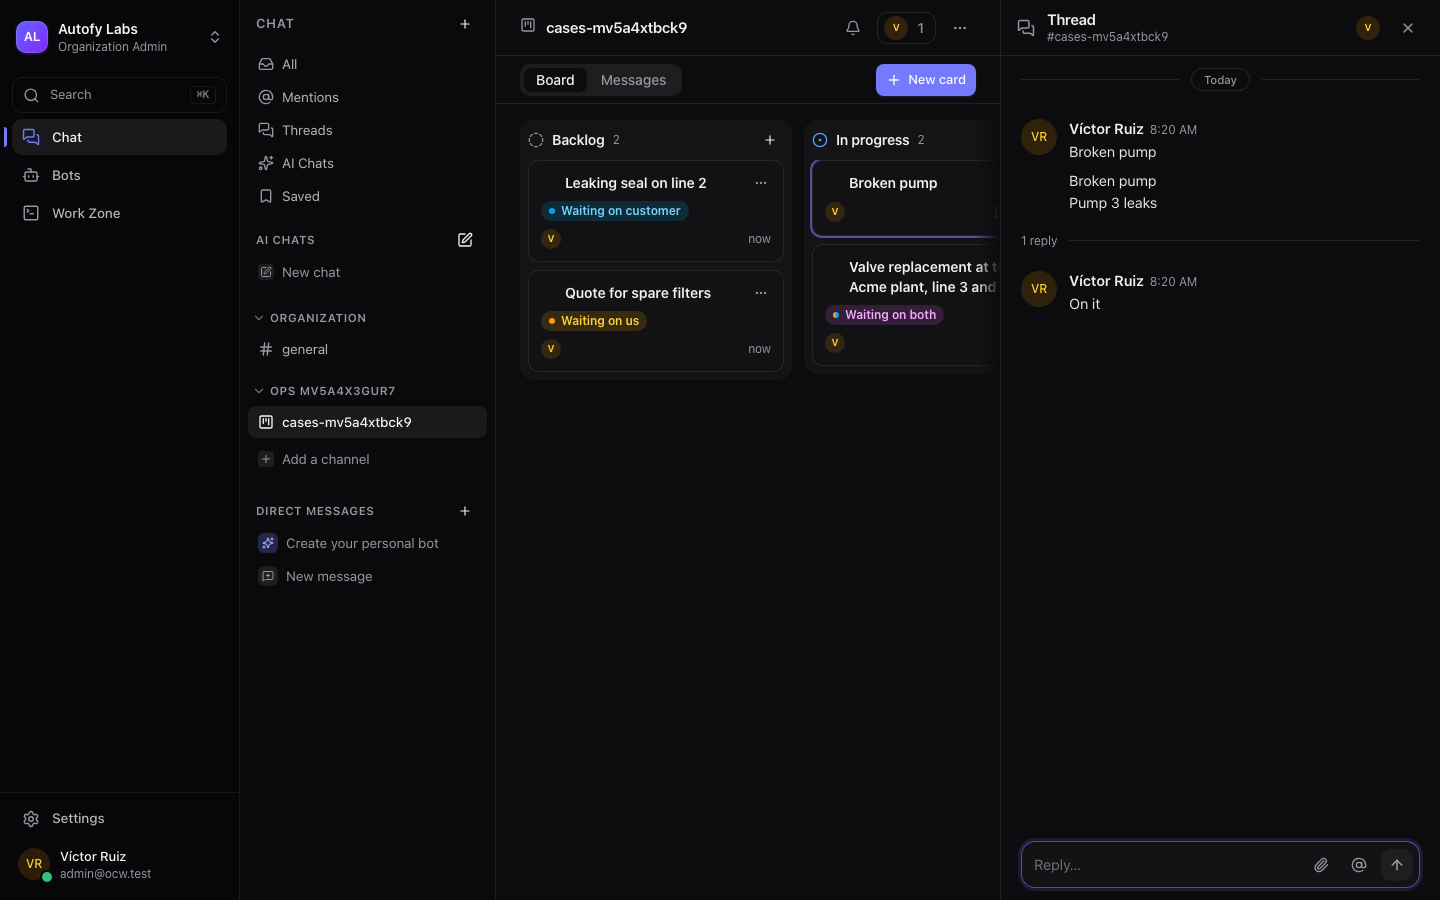
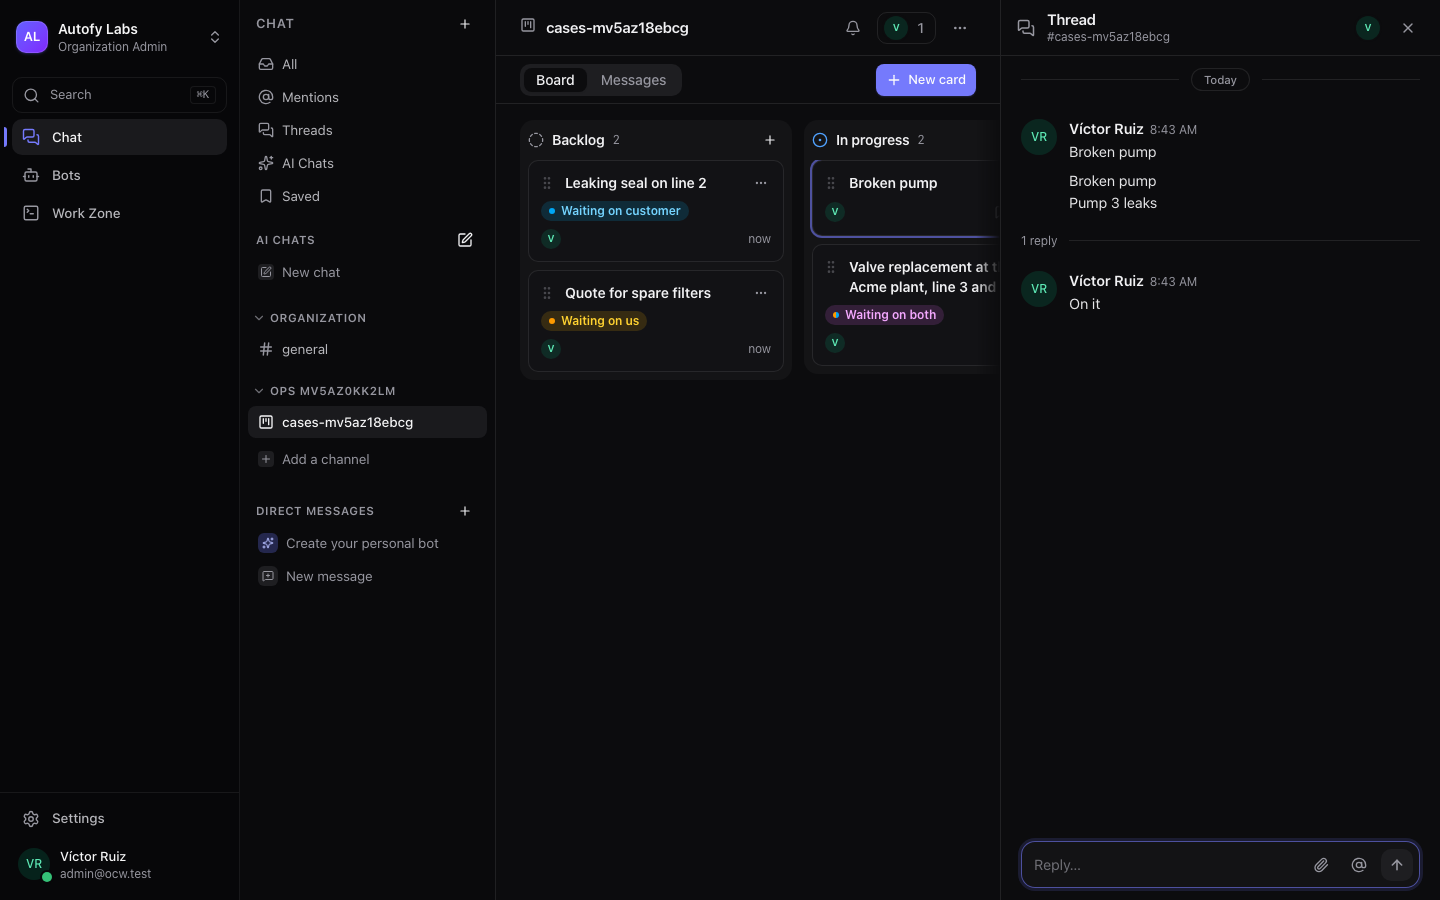
feat(web): cards move by pointer, menu and touch at 1440 and 390
- Pointer drag within and across lanes, Escape or a drop outside cancels with no request
- Card menu moves (Move to…, top, bottom) and waiting state, announced; focus stays on
  the moved card's menu (desktop) or the tab list (390, card left the tab)
- 390: column tabs keep col= across the thread round trip, long-press reorder by touch
- Cancel announcement names the column the drag started from; tab names pluralise
- e2e: pointer, Escape, menu, waiting, lane +, 390 tabs, CDP touch long-press, screenshots

diff --git a/e2e/tests/board-channels.spec.ts b/e2e/tests/board-channels.spec.ts
@@ -1,4 +1,11 @@
-import { type APIRequestContext, type Browser, expect, type Page, test } from "@playwright/test";
+import {
+  type APIRequestContext,
+  type Browser,
+  expect,
+  type Locator,
+  type Page,
+  test,
+} from "@playwright/test";
 import { apiAs, openAs } from "../support/actors";
 import {
   apiCard,
@@ -7,6 +14,7 @@ import {
   cardTile,
   columnId,
   columnOrder,
+  createBoardChannel,
   createCard,
   openBoard,
 } from "../support/board";
@@ -165,4 +173,280 @@ test("tracer: Víctor creates #cases as a board, adds a card, moves it with the 
 
   const snap = await boardSnapshot(admin, convId);
   expect(snap.cards.find((c) => c.columnId === progress)?.cards.map((c) => c.messageId)).toContain(cardId);
+});
+
+// ---------------------------------------------------------------- Task 2: every way to move a card
+
+/** Card menu → submenu item (Move to… / Waiting on…) → radio item. */
+async function menuPick(page: Page, tile: Locator, submenu: "Move to…" | "Waiting on…", item: string) {
+  await tile.getByTestId("card-menu").click();
+  await page.getByRole("menuitem", { name: submenu }).click();
+  await page.getByRole("menuitemradio", { name: item, exact: true }).click();
+  await expect(page.getByTestId("card-menu-content")).toHaveCount(0);
+}
+
+async function menuItem(page: Page, tile: Locator, item: "Move to top" | "Move to bottom") {
+  await tile.getByTestId("card-menu").click();
+  await page.getByRole("menuitem", { name: item }).click();
+  await expect(page.getByTestId("card-menu-content")).toHaveCount(0);
+}
+
+/** A mouse drag from the middle of `from` (the title area, away from the menu) to `to`, in small steps. */
+async function pointerDrag(page: Page, from: Locator, to: { x: number; y: number }) {
+  const box = await from.boundingBox();
+  if (!box) throw new Error("no source box");
+  // A previous drop animates for 250 ms; a press during it is ignored by dnd-kit.
+  await page.waitForTimeout(400);
+  const sx = box.x + box.width * 0.4;
+  const sy = box.y + box.height * 0.5;
+  await page.mouse.move(sx, sy);
+  await page.mouse.down();
+  await page.mouse.move(sx + 12, sy + 4, { steps: 4 });
+  await page.mouse.move(to.x, to.y, { steps: 24 });
+  await page.waitForTimeout(150);
+  await page.mouse.up();
+}
+
+async function centerOf(l: Locator): Promise<{ x: number; y: number; top: number; bottom: number }> {
+  const b = await l.boundingBox();
+  if (!b) throw new Error("no box");
+  return { x: b.x + b.width / 2, y: b.y + b.height / 2, top: b.y, bottom: b.y + b.height };
+}
+
+test("desktop: pointer drag across and within lanes, Escape cancels, card menu moves and waiting state, lane +", async ({
+  browser,
+}, info) => {
+  test.skip(info.project.name !== "desktop", "pointer drag and lanes are the 1440 layout");
+  test.setTimeout(150_000);
+  const admin = await apiAs(ADMIN);
+  const { id: convId } = await createBoardChannel(admin, { prefix: "moves" });
+  const backlog = await columnId(admin, convId, "Backlog");
+  const progress = await columnId(admin, convId, "In progress");
+  const done = await columnId(admin, convId, "Done");
+  const cancelled = await columnId(admin, convId, "Cancelled");
+  const a = await createCard(admin, convId, { title: "Alpha order", columnId: done });
+  const b = await createCard(admin, convId, { title: "Bravo order", columnId: done });
+  const c = await createCard(admin, convId, { title: "Charlie order", description: "Needs a quote" });
+  const d = await createCard(admin, convId, { title: "Delta order" });
+  const e = await createCard(admin, convId, { title: "Echo order" });
+  const page = await signedIn(browser, "desktop");
+  const board = await openBoard(page, convId);
+  const patches: string[] = [];
+  page.on("request", (r) => {
+    if (r.method() === "PATCH" && r.url().includes(`/boards/${convId}/cards/`)) patches.push(r.url());
+  });
+
+  // ---- C from Backlog to between A and B in Done
+  const bBox = await centerOf(cardTile(board, b.messageId));
+  await pointerDrag(page, cardTile(board, c.messageId).locator('[data-slot="card-open"]'), {
+    x: bBox.x,
+    y: bBox.top + 8,
+  });
+  await expect.poll(() => columnOrder(board, done)).toEqual([a.messageId, c.messageId, b.messageId]);
+  await expectCardIn(admin, convId, c.messageId, done);
+  await page.reload();
+  await openBoard(page, convId);
+  expect(await columnOrder(board, done)).toEqual([a.messageId, c.messageId, b.messageId]);
+
+  // ---- within Backlog: E above D
+  const dBox = await centerOf(cardTile(board, d.messageId));
+  await pointerDrag(page, cardTile(board, e.messageId).locator('[data-slot="card-open"]'), {
+    x: dBox.x,
+    y: dBox.top + 8,
+  });
+  await expect.poll(() => columnOrder(board, backlog)).toEqual([e.messageId, d.messageId]);
+  await expect
+    .poll(async () =>
+      (await boardSnapshot(admin, convId)).cards
+        .find((x) => x.columnId === backlog)
+        ?.cards.map((x) => x.messageId),
+    )
+    .toEqual([e.messageId, d.messageId]);
+
+  // ---- Escape during a drag: back where it was, no request
+  const sent = patches.length;
+  const dTile = cardTile(board, d.messageId).locator('[data-slot="card-open"]');
+  const start = await centerOf(dTile);
+  const pBox = await centerOf(boardColumn(board, progress));
+  await page.waitForTimeout(400);
+  await page.mouse.move(start.x - 40, start.y);
+  await page.mouse.down();
+  await page.mouse.move(start.x - 20, start.y + 6, { steps: 4 });
+  await page.mouse.move(pBox.x, pBox.y, { steps: 16 });
+  await expect(page.locator("#dnd-kit-announcement-board")).toContainText("Delta order");
+  await page.keyboard.press("Escape");
+  await page.mouse.up();
+  await expect.poll(() => columnOrder(board, backlog)).toEqual([e.messageId, d.messageId]);
+  await page.waitForTimeout(400);
+  expect(patches.length).toBe(sent);
+  await expect(page.locator("#dnd-kit-announcement-board")).toHaveText(
+    "Move cancelled. “Delta order” is back in Backlog.",
+  );
+
+  // ---- menu: Move to… Cancelled (bottom), announced; focus stays on the moved card's menu trigger
+  const live = board.getByTestId("board-live");
+  await menuPick(page, cardTile(board, e.messageId), "Move to…", "Cancelled");
+  await expect.poll(() => columnOrder(board, cancelled)).toEqual([e.messageId]);
+  await expect(live).toContainText("Moved “Echo order” to Cancelled.");
+  await expect(cardTile(board, e.messageId).getByTestId("card-menu")).toBeFocused();
+  await expectCardIn(admin, convId, e.messageId, cancelled);
+
+  // ---- Move to top / Move to bottom in Done (A, C, B)
+  await menuItem(page, cardTile(board, b.messageId), "Move to top");
+  await expect.poll(() => columnOrder(board, done)).toEqual([b.messageId, a.messageId, c.messageId]);
+  await expect(live).toContainText("Moved “Bravo order” to the top of Done.");
+  await menuItem(page, cardTile(board, a.messageId), "Move to bottom");
+  await expect.poll(() => columnOrder(board, done)).toEqual([b.messageId, c.messageId, a.messageId]);
+  await expect(live).toContainText("Moved “Alpha order” to the bottom of Done.");
+  await expect
+    .poll(async () =>
+      (await boardSnapshot(admin, convId)).cards
+        .find((x) => x.columnId === done)
+        ?.cards.map((x) => x.messageId),
+    )
+    .toEqual([b.messageId, c.messageId, a.messageId]);
+
+  // ---- Waiting on… Customer, then Nobody
+  const cTile = cardTile(board, c.messageId);
+  await menuPick(page, cTile, "Waiting on…", "Customer");
+  await expect(cTile.getByTestId("waiting-on-badge")).toHaveText("Waiting on customer");
+  await expect(live).toContainText("“Charlie order” is now waiting on the customer.");
+  await expect.poll(async () => (await apiCard(admin, convId, c.messageId)).waitingOn).toBe("customer");
+
+  // Screenshot: the menu open with its Move to… submenu.
+  await cardTile(board, c.messageId).getByTestId("card-menu").click();
+  await page.getByRole("menuitem", { name: "Move to…" }).click();
+  await expect(page.getByRole("menuitemradio", { name: "Cancelled" })).toBeVisible();
+  await bothThemes(page, "board-menu-1440");
+  await page.keyboard.press("Escape");
+  await page.keyboard.press("Escape");
+  await expect(page.getByTestId("card-menu-content")).toHaveCount(0);
+
+  await menuPick(page, cTile, "Waiting on…", "Nobody");
+  await expect(cTile.getByTestId("waiting-on-badge")).toHaveCount(0);
+  await expect.poll(async () => (await apiCard(admin, convId, c.messageId)).waitingOn).toBe("none");
+
+  // ---- a lane's + opens New card in that lane; the card lands at its bottom
+  await board.getByRole("button", { name: "Add card to In progress" }).click();
+  const dialog = page.getByTestId("new-card");
+  await expect(dialog).toBeVisible();
+  await expect(dialog.getByTestId("new-card-column")).toHaveText(/In progress/);
+  await dialog.getByLabel("Description").fill("Call the supplier about the gasket\nThey promised Friday");
+  await bothThemes(page, "board-new-card-1440");
+  await dialog.getByTestId("new-card-submit").click();
+  await expect(dialog).toBeHidden();
+  const added = board.getByTestId("board-card").filter({ hasText: "Call the supplier" });
+  await expect(added).toHaveCount(1);
+  expect((await columnOrder(board, progress)).at(-1)).toBe(await added.getAttribute("data-card-id"));
+});
+
+test.describe("390", () => {
+  test.use({ hasTouch: true });
+
+  test("mobile: column tabs, long-press reorder by touch, menu moves, thread full screen and back, New card", async ({
+    browser,
+  }, info) => {
+    test.skip(info.project.name !== "mobile", "the 390 layout");
+    test.setTimeout(150_000);
+    const admin = await apiAs(ADMIN);
+    const { id: convId } = await createBoardChannel(admin, { prefix: "phone" });
+    const backlog = await columnId(admin, convId, "Backlog");
+    const progress = await columnId(admin, convId, "In progress");
+    const a = await createCard(admin, convId, { title: "Pump inspection", waitingOn: "customer" });
+    const b = await createCard(admin, convId, { title: "Seal kit order", description: "Two kits" });
+    const c = await createCard(admin, convId, { title: "Filter quote", waitingOn: "us" });
+    const page = await signedIn(browser, "mobile");
+    const board = await openBoard(page, convId);
+
+    // ---- underline tabs with counts, one column visible, no horizontal page scroll
+    const tabs = board.getByTestId("board-tabs");
+    await expect(tabs.getByRole("tab", { name: "Backlog, 3 cards" })).toHaveAttribute(
+      "aria-selected",
+      "true",
+    );
+    await expect(tabs.getByRole("tab", { name: "In progress, 0 cards" })).toBeVisible();
+    await expect(tabs.getByRole("tab", { name: "Backlog, 3 cards" })).toContainText("Backlog3");
+    expect(await columnOrder(board, backlog)).toEqual([a.messageId, b.messageId, c.messageId]);
+    expect(await page.evaluate(() => document.documentElement.scrollWidth)).toBeLessThanOrEqual(390);
+    await bothThemes(page, "board-390");
+
+    await tabs.getByRole("tab", { name: "In progress, 0 cards" }).click();
+    await expect(page).toHaveURL(new RegExp(`col=${progress}`));
+    await expect(board.getByText("No cards")).toBeVisible();
+    await tabs.getByRole("tab", { name: "Backlog, 3 cards" }).click();
+    await expect(page).toHaveURL(new RegExp(`col=${backlog}`));
+
+    // ---- long-press reorder: B held 300 ms, moved below C in small steps, released
+    const cdp = await page.context().newCDPSession(page);
+    const touch = (type: "touchStart" | "touchMove" | "touchEnd", x = 0, y = 0) =>
+      cdp.send("Input.dispatchTouchEvent", { type, touchPoints: type === "touchEnd" ? [] : [{ x, y }] });
+    const bAt = await centerOf(cardTile(board, b.messageId));
+    const cAt = await centerOf(cardTile(board, c.messageId));
+    const x = bAt.x - 60;
+    await touch("touchStart", x, bAt.y);
+    await page.waitForTimeout(300);
+    const target = cAt.y + 12;
+    for (let i = 1; i <= 20; i++) {
+      await touch("touchMove", x, bAt.y + ((target - bAt.y) * i) / 20);
+      await page.waitForTimeout(16);
+    }
+    await page.waitForTimeout(150);
+    await touch("touchEnd");
+    await expect.poll(() => columnOrder(board, backlog)).toEqual([a.messageId, c.messageId, b.messageId]);
+    await expect
+      .poll(async () =>
+        (await boardSnapshot(admin, convId)).cards
+          .find((k) => k.columnId === backlog)
+          ?.cards.map((k) => k.messageId),
+      )
+      .toEqual([a.messageId, c.messageId, b.messageId]);
+    await page.reload();
+    await openBoard(page, convId);
+    expect(await columnOrder(board, backlog)).toEqual([a.messageId, c.messageId, b.messageId]);
+
+    // ---- a quick tap still opens the thread, full screen; closing returns to the same tab, focus on the card
+    await tabs.getByRole("tab", { name: "In progress, 0 cards" }).click();
+    await tabs.getByRole("tab", { name: "Backlog, 3 cards" }).click();
+    await expect(page).toHaveURL(new RegExp(`col=${backlog}`));
+    await cardTile(board, a.messageId).locator('[data-slot="card-open"]').tap();
+    const panel = page.getByTestId("thread-panel");
+    await expect(panel).toBeVisible();
+    const pb = await panel.boundingBox();
+    expect(pb?.width).toBeGreaterThanOrEqual(388);
+    await bothThemes(page, "board-thread-390");
+    await panel.getByTestId("close-thread").click();
+    await expect(panel).toBeHidden();
+    await expect(page).toHaveURL(new RegExp(`col=${backlog}`));
+    await expect(cardTile(board, a.messageId).locator('[data-slot="card-open"]')).toBeFocused();
+
+    // ---- menu: Move to… In progress (the tab count follows); Move to top
+    await menuPick(page, cardTile(board, b.messageId), "Move to…", "In progress");
+    await expect(tabs.getByRole("tab", { name: "In progress, 1 card" })).toBeVisible();
+    await expect(tabs.getByRole("tab", { name: "Backlog, 2 cards" })).toBeVisible();
+    await expect(tabs.getByRole("tab", { name: "Backlog, 2 cards" })).toBeFocused();
+    await expectCardIn(admin, convId, b.messageId, progress);
+    await menuItem(page, cardTile(board, c.messageId), "Move to top");
+    await expect.poll(() => columnOrder(board, backlog)).toEqual([c.messageId, a.messageId]);
+
+    // Screenshot: the card menu with its Move to… submenu at 390.
+    await cardTile(board, a.messageId).getByTestId("card-menu").click();
+    await page.getByRole("menuitem", { name: "Move to…" }).click();
+    await expect(page.getByRole("menuitemradio", { name: "Done" })).toBeVisible();
+    await bothThemes(page, "board-menu-390");
+    await page.keyboard.press("Escape");
+    await page.keyboard.press("Escape");
+
+    // ---- New card, full screen
+    await page.getByTestId("new-card-button").click();
+    const dialog = page.getByTestId("new-card");
+    await expect(dialog).toBeVisible();
+    const db = await dialog.boundingBox();
+    expect(db?.width).toBeGreaterThanOrEqual(388);
+    expect(db?.height).toBeGreaterThanOrEqual(800);
+    await dialog.getByLabel("Description").fill("Replace the gauge on tank 4");
+    await bothThemes(page, "board-new-card-390");
+    await dialog.getByTestId("new-card-submit").click();
+    await expect(dialog).toBeHidden();
+    await expect(board.getByTestId("board-card").filter({ hasText: "Replace the gauge" })).toBeVisible();
+  });
 });

diff --git a/apps/web/components/chat/board/board-view.tsx b/apps/web/components/chat/board/board-view.tsx
@@ -105,6 +105,8 @@ interface Labels {
   title: (id: string) => string;
   column: (id: string) => string;
   items: () => Items | null;
+  /** The column a card was in when the drag started (dnd-kit's own `initialGroup` changes when a card is remounted in another lane mid-drag). */
+  origin: (id: string) => string | null;
 }
 
 /**
@@ -143,7 +145,8 @@ function withBoardAnnouncements(defaults: PluginList, labels: { current: Labels 
         if (!source) return undefined;
         const id = String(source.id);
         if (canceled || !target) {
-          const from = isSortable(source) ? String(source.sortable.initialGroup) : "";
+          const from =
+            labels.current.origin(id) ?? (isSortable(source) ? String(source.sortable.initialGroup) : "");
           return `Move cancelled. ${title(id)} is back in ${labels.current.column(from)}.`;
         }
         const p = where(id);
@@ -186,6 +189,7 @@ export function BoardView(props: BoardViewProps) {
 
   // ---------------------------------------------------------------- focus that must land after a re-render
   const focusNext = useRef<Focus | null>(null);
+  const focusLanded = useRef(false);
   const tryFocus = useCallback(() => {
     const f = focusNext.current;
     const root = rootRef.current;
@@ -203,16 +207,27 @@ export function BoardView(props: BoardViewProps) {
             : '[data-slot="card-open"]';
       el = tile?.querySelector<HTMLElement>(slot) ?? null;
     }
-    if (el) {
-      el.focus({ preventScroll: false });
-      if (document.activeElement === el) focusNext.current = null;
+    if (!el || document.activeElement === el) {
+      if (el) focusLanded.current = true;
+      return;
     }
+    // Once focus has landed, only take it back when it was lost (a closing menu returned it to an unmounted
+    // trigger, so it fell to <body>); never from a control the person has moved to since, such as another menu.
+    const lost = !document.activeElement || document.activeElement === document.body;
+    if (focusLanded.current && !lost) return;
+    el.focus({ preventScroll: false });
+    if (document.activeElement === el) focusLanded.current = true;
   }, []);
   const requestFocus = useCallback(
     (f: Focus) => {
       focusNext.current = f;
-      // After React re-renders the card in its new place and after a closing menu returns focus to its trigger.
-      for (const ms of [0, 60, 200]) window.setTimeout(tryFocus, ms);
+      focusLanded.current = false;
+      // After React re-renders the card in its new place, and again after a closing menu has returned focus to its
+      // (possibly unmounted) trigger; the request lapses once the menu has closed.
+      for (const ms of [0, 60, 200, 350]) window.setTimeout(tryFocus, ms);
+      window.setTimeout(() => {
+        if (focusNext.current === f) focusNext.current = null;
+      }, 400);
     },
     [tryFocus],
   );
@@ -260,11 +275,12 @@ export function BoardView(props: BoardViewProps) {
   const [dragId, setDragId] = useState<string | null>(null);
   const [keyboardDrag, setKeyboardDrag] = useState(false);
 
-  const labels = useRef<Labels>({ title: () => "", column: () => "", items: () => null });
+  const labels = useRef<Labels>({ title: () => "", column: () => "", items: () => null, origin: () => null });
   labels.current = {
     title: (id) => cardsById.get(id)?.title ?? "card",
     column: columnName,
     items: () => itemsRef.current ?? startItems.current ?? baseRef.current,
+    origin: (id) => locate(startItems.current ?? baseRef.current, id)?.col ?? null,
   };
   const plugins = useMemo<PluginsFn>(() => (defaults) => withBoardAnnouncements(defaults, labels), []);
 
